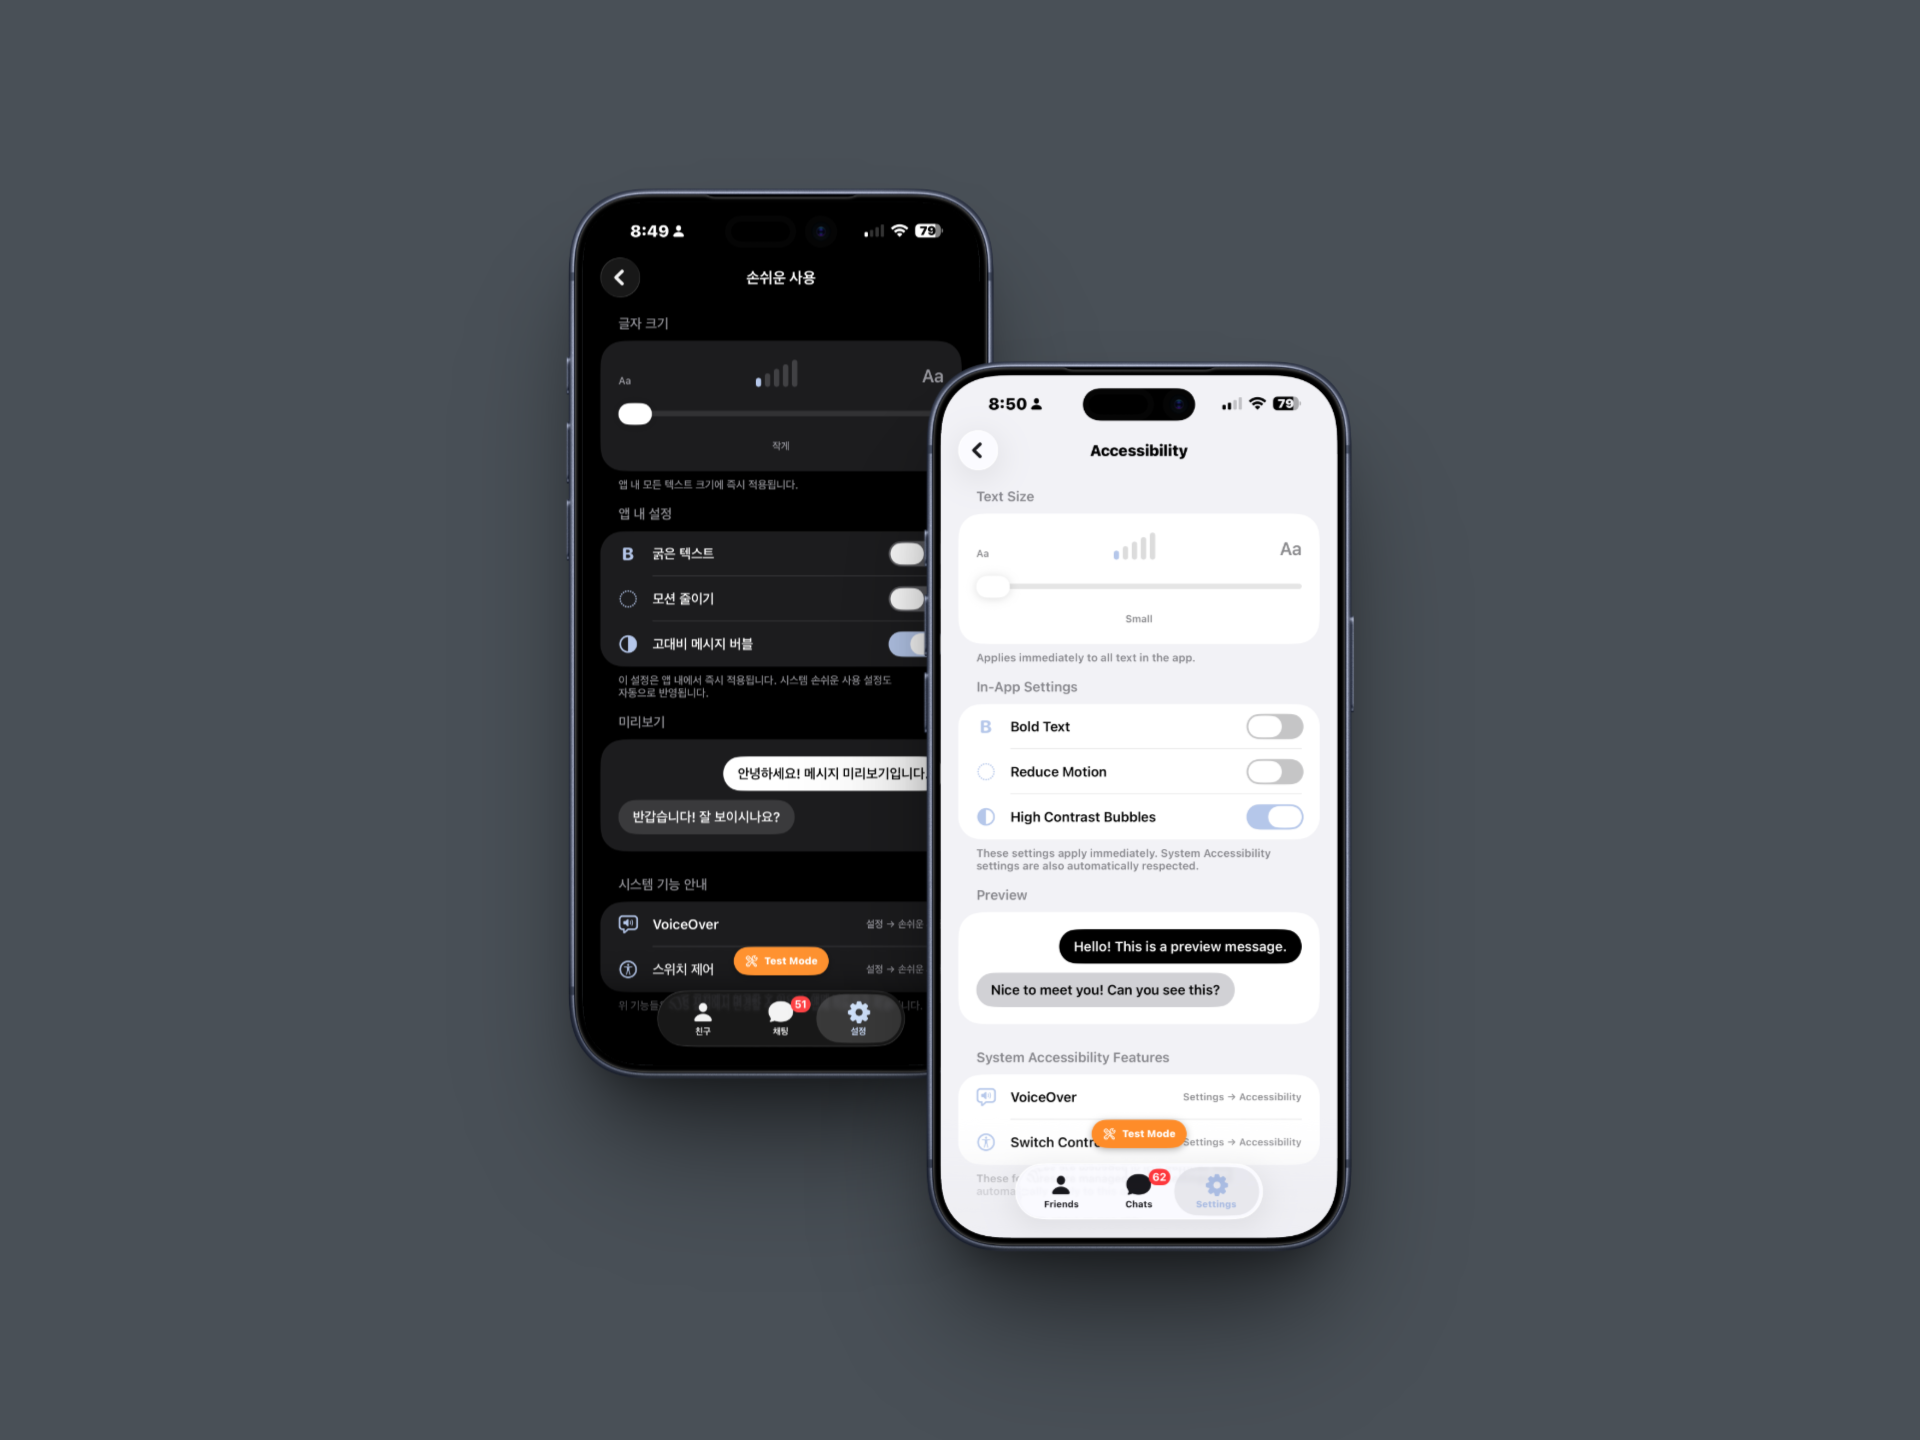
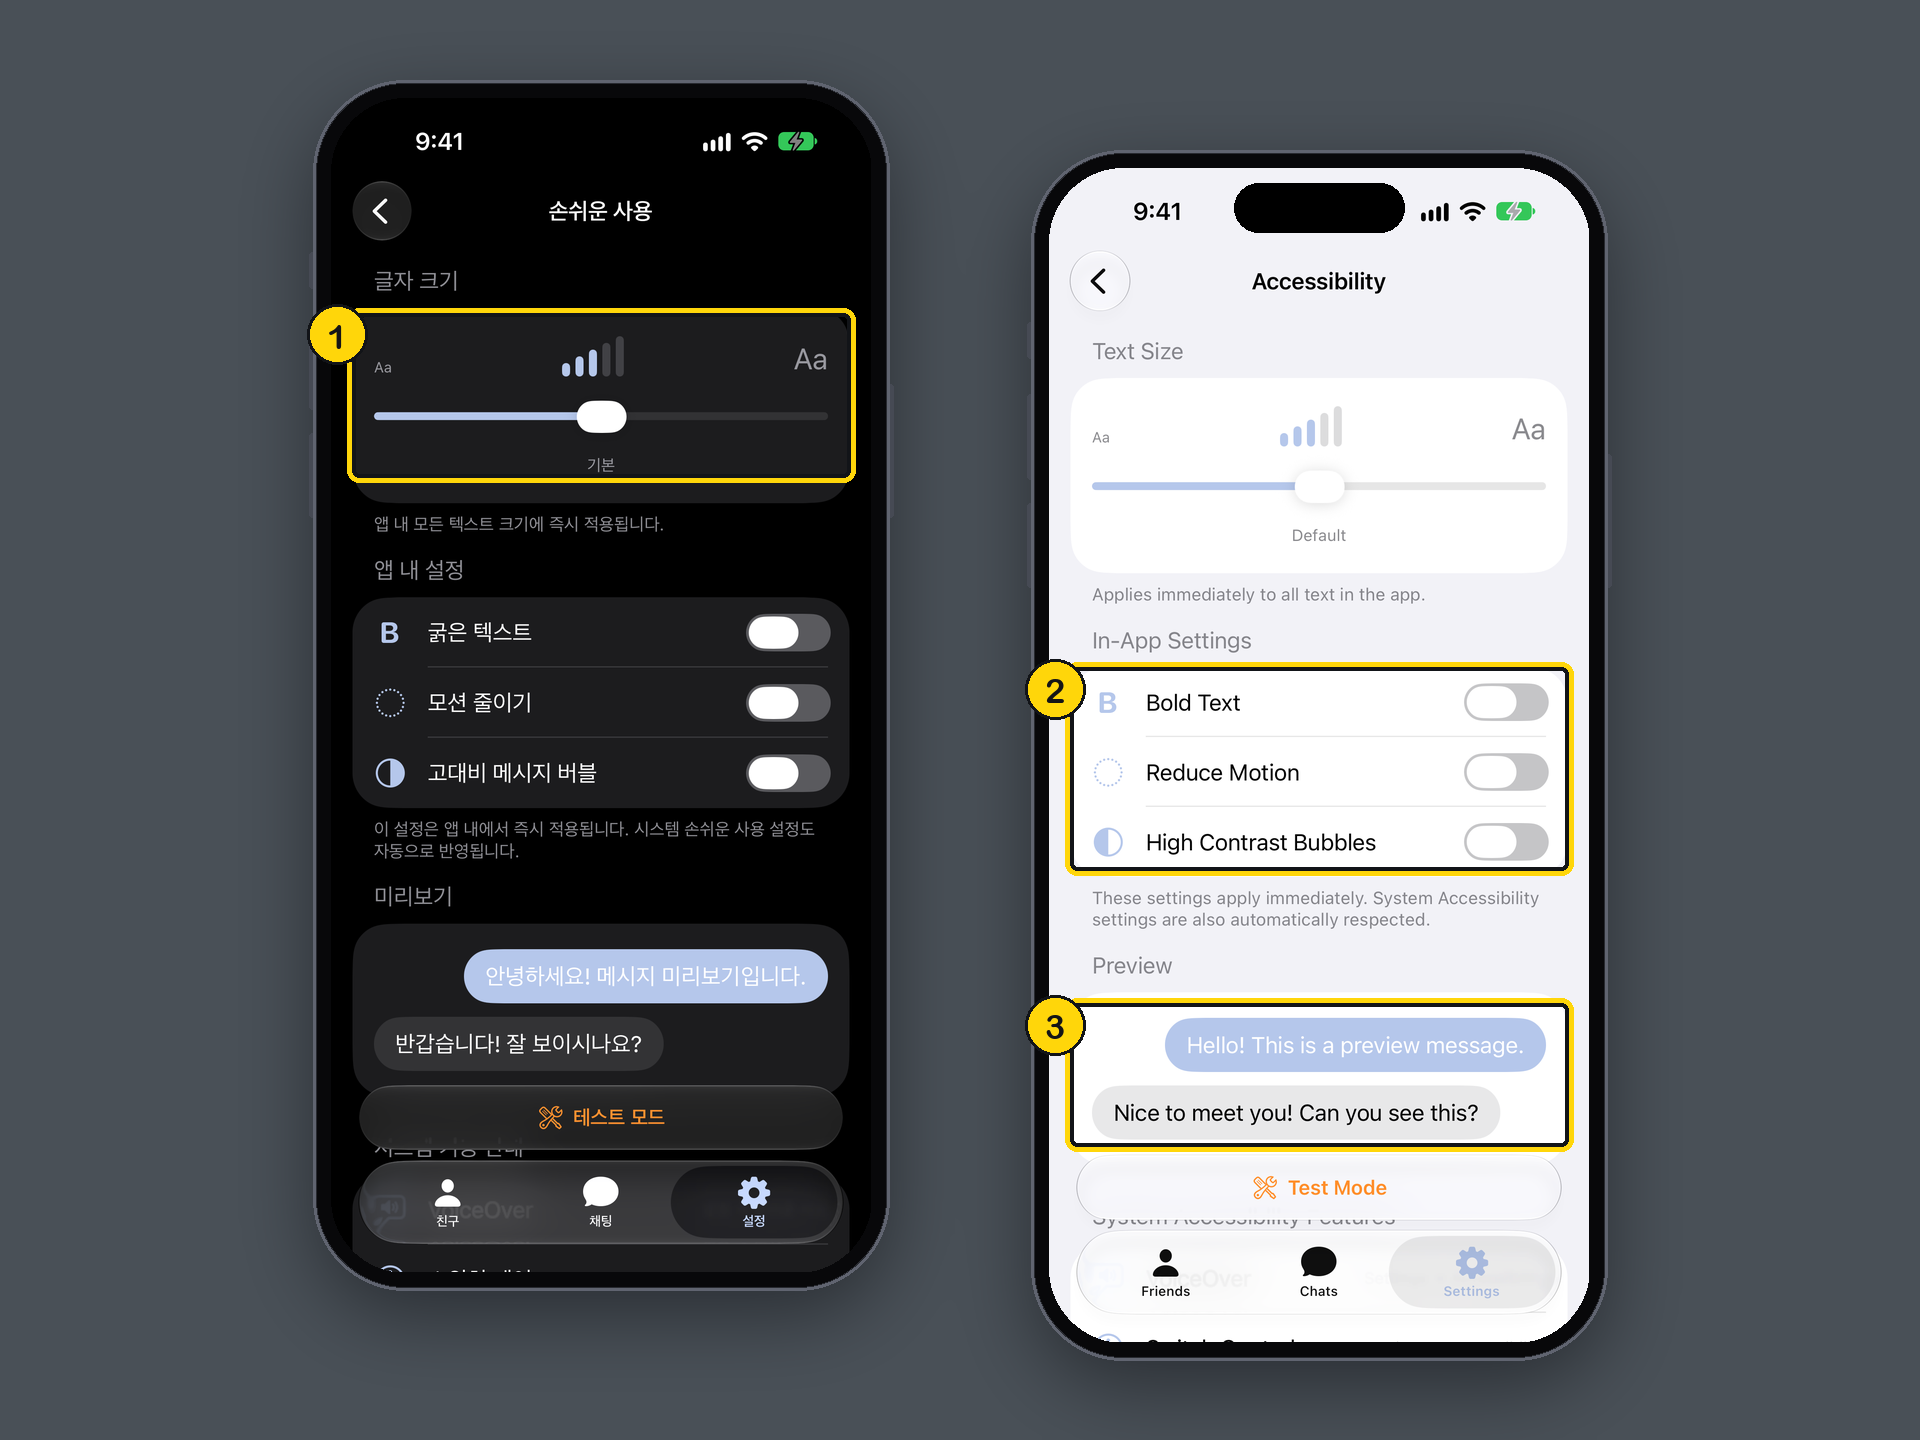
docs: retake the README screenshots and say what each one shows
The hero image was the sign-in screen, which shows nothing the app does.
The translation, settings and accessibility shots came from an older UI
with the test mode badge over the message field, and the translation
shot had awkward lines: "업무는 어떠신가요?" (how's work?) read "How are
you?".

The hero now shows reply suggestions, a chat translated across three
languages and meeting notes. Every shot was retaken on the iOS 27
simulator: the translation one is a study group writing in Korean,
Japanese and Spanish, seen in the English and in the Korean app, each
line translated on device by Apple Intelligence. Each image has numbered
callouts that the notes under it explain, in both languages.

The voice message shot is gone. Starting a recording stalls the app in
the simulator, so it couldn't be retaken, and the old one showed the
outdated UI.

diff --git a/README.md b/README.md
@@ -15,7 +15,7 @@ _A messenger that gets out of your way — and breaks language barriers while it
 
 <br/>
 
-![L!nk screenshot](docs/screenshots/main.png)
+![L!NK: reply suggestions, inline translation across three languages, and meeting notes](docs/screenshots/main.png)
 
 </div>
 
@@ -108,33 +108,49 @@ It's the moment of connection — the spark when two people understand each othe
 
 ## Screenshots
 
-### Adaptive Layout (iPad)
+The numbers in each image match the notes under it. The chats are test-mode sample data on the iOS 27 simulator; the AI text in them — translations, replies, summaries and notes — is real output of the on-device models.
 
-![Adaptive layout on iPad](docs/screenshots/wide-layout.png)
+### Inline Translation
 
-### Translation
+![A study group chat in English and in Korean, with each message translated underneath](docs/screenshots/translation.png)
 
-![Translation](docs/screenshots/translation.png)
+1. Minji writes in Korean, Yuki in Japanese and Carlos in Spanish. With translation on, each message gets a line in your language underneath, translated on device.
+2. The same chat with the app in Korean: the lines are now in Korean, and Minji's message, already in Korean, gets none.
 
 ### AI Summary & Meeting Notes
 
-![AI summary and meeting notes](docs/screenshots/summary.png)
+![A chat summary and the meeting notes of the same chat](docs/screenshots/summary.png)
+
+1. The summary: key topics and decisions, written on device by Apple Intelligence.
+2. Action items, each with who took it on and by when. Every item quotes the message it came from and is checked against the chat.
+3. Dates come from a date detector, not the model, with the message each one was found in.
 
 ### Reply Suggestions & Search by Meaning
 
-![Reply suggestions and search by meaning](docs/screenshots/suggestions-search.png)
+![Suggested replies above the message field, and a Korean search that finds an English message](docs/screenshots/suggestions-search.png)
 
-### Settings
+1. Three short replies in the chat's language, written once the other side answers. A tap puts one in the message field.
+2. Searching "저녁 약속" (dinner plans) finds "dinner tonight". Related words and translations are looked up on device, and the app shows which ones it added.
 
-![Settings](docs/screenshots/settings.png)
+### Adaptive Layout (iPad)
+
+![The chat list beside an open conversation on iPad](docs/screenshots/wide-layout.png)
+
+In a regular-width window the chat list stays beside the open conversation; on iPhone it collapses to one column.
 
 ### Accessibility
 
-![Accessibility](docs/screenshots/accessibility.png)
+![Accessibility settings in Korean and dark mode, and in English and light mode](docs/screenshots/accessibility.png)
 
-### Voice Message
+1. Text size applies to the whole app at once.
+2. Bold text, reduced motion and high-contrast bubbles, on top of the system's own settings.
+3. A preview of the bubbles with the current settings.
 
-![Voice Message](docs/screenshots/voice.png)
+### Settings
+
+![Settings in Korean and in English](docs/screenshots/settings.png)
+
+Notifications, theme, language, app lock, the on-device AI features, translation, contacts and accessibility, in all five of the app's languages.
 
 ---
 
@@ -240,7 +256,7 @@ _방해받지 않는 메신저 — 그리고 언어 장벽까지 없애줍니다
 
 <br/>
 
-![L!nk screenshot](docs/screenshots/main.png)
+![L!NK: 추천 답장, 세 언어를 오가는 인라인 번역, 회의 노트](docs/screenshots/main.png)
 
 </div>
 
@@ -333,33 +349,49 @@ _방해받지 않는 메신저 — 그리고 언어 장벽까지 없애줍니다
 
 ## 스크린샷
 
-### 적응형 레이아웃 (iPad)
+이미지 속 번호는 아래 설명의 번호와 같습니다. 대화는 iOS 27 시뮬레이터의 테스트 모드 샘플 데이터이고, 그 안의 AI 문장(번역, 답장, 요약, 노트)은 기기 안 모델이 실제로 만든 결과입니다.
 
-![iPad 적응형 레이아웃](docs/screenshots/wide-layout.png)
+### 인라인 번역
 
-### 번역
+![영어와 한국어 화면에서 메시지마다 번역이 붙은 스터디 그룹 대화](docs/screenshots/translation.png)
 
-![번역](docs/screenshots/translation.png)
+1. 민지는 한국어로, Yuki는 일본어로, Carlos는 스페인어로 씁니다. 번역을 켜면 메시지마다 아래에 내 언어로 된 번역이 기기 안에서 붙습니다.
+2. 같은 대화를 한국어 앱에서 보면 번역이 한국어로 바뀌고, 이미 한국어인 민지의 메시지에는 붙지 않습니다.
 
 ### AI 요약 · 회의 노트
 
-![AI 요약과 회의 노트](docs/screenshots/summary.png)
+![대화 요약과 같은 대화의 회의 노트](docs/screenshots/summary.png)
+
+1. 요약: 주요 주제와 결정 사항을 기기 안의 Apple Intelligence가 작성합니다.
+2. 할 일마다 누가 맡았는지, 언제까지인지 적습니다. 모든 항목은 근거 메시지를 인용하고 대화와 대조합니다.
+3. 일정은 모델이 아니라 날짜 감지기가 찾고, 찾은 메시지를 함께 보여 줍니다.
 
 ### 추천 답장 · 의미로 검색
 
-![추천 답장과 의미로 검색](docs/screenshots/suggestions-search.png)
+![입력창 위의 추천 답장과, 한국어 검색어로 영어 메시지를 찾은 화면](docs/screenshots/suggestions-search.png)
 
-### 설정
+1. 상대가 답하면 대화 언어로 된 짧은 답장 3개가 나타납니다. 누르면 입력란에 들어갑니다.
+2. "저녁 약속"으로 검색하면 "dinner tonight"을 찾습니다. 관련어와 번역어를 기기 안에서 찾고, 어떤 말을 더했는지 보여 줍니다.
 
-![설정](docs/screenshots/settings.png)
+### 적응형 레이아웃 (iPad)
+
+![iPad에서 채팅 목록과 열린 대화가 나란히 있는 화면](docs/screenshots/wide-layout.png)
+
+넓은 창에서는 채팅 목록이 열린 대화 옆에 그대로 남고, 아이폰에서는 한 화면씩 보입니다.
 
 ### 접근성
 
-![접근성](docs/screenshots/accessibility.png)
+![한국어·다크 모드와 영어·라이트 모드의 접근성 설정](docs/screenshots/accessibility.png)
 
-### 음성 메시지
+1. 글자 크기는 앱 전체에 바로 적용됩니다.
+2. 굵은 텍스트, 동작 줄이기, 고대비 말풍선을 시스템 설정과 별도로 켤 수 있습니다.
+3. 지금 설정으로 말풍선이 어떻게 보이는지 미리 보여 줍니다.
 
-![음성 메시지](docs/screenshots/voice.png)
+### 설정
+
+![한국어와 영어 설정 화면](docs/screenshots/settings.png)
+
+알림, 테마, 언어, 앱 잠금, 기기 안 AI 기능, 번역, 연락처, 접근성을 앱이 지원하는 5개 언어로 제공합니다.
 
 ---
 
